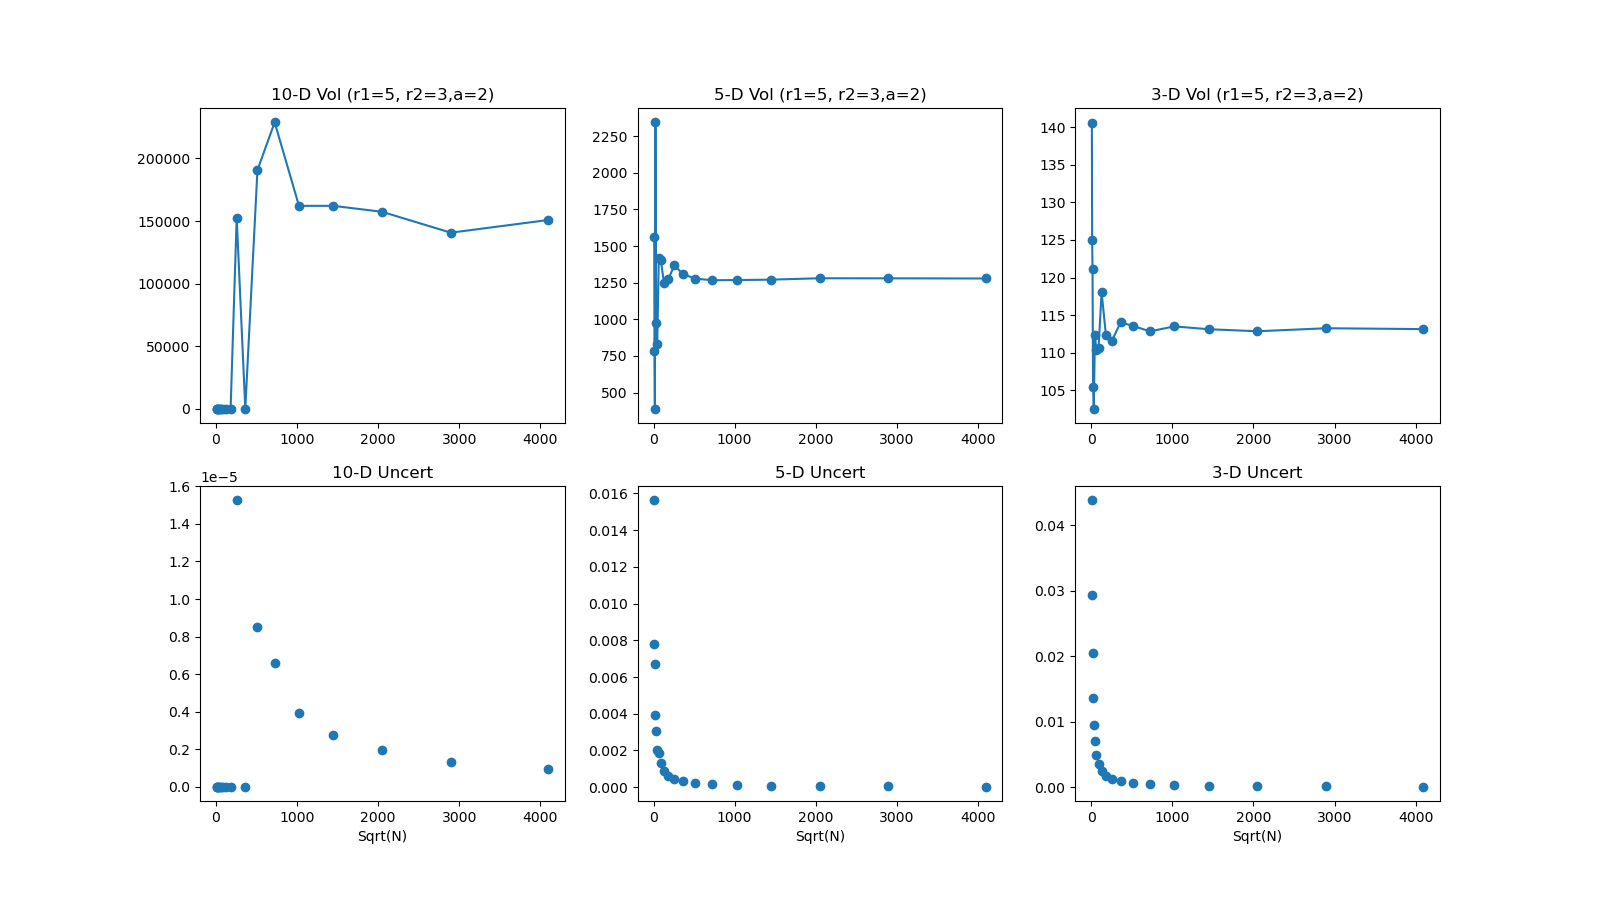
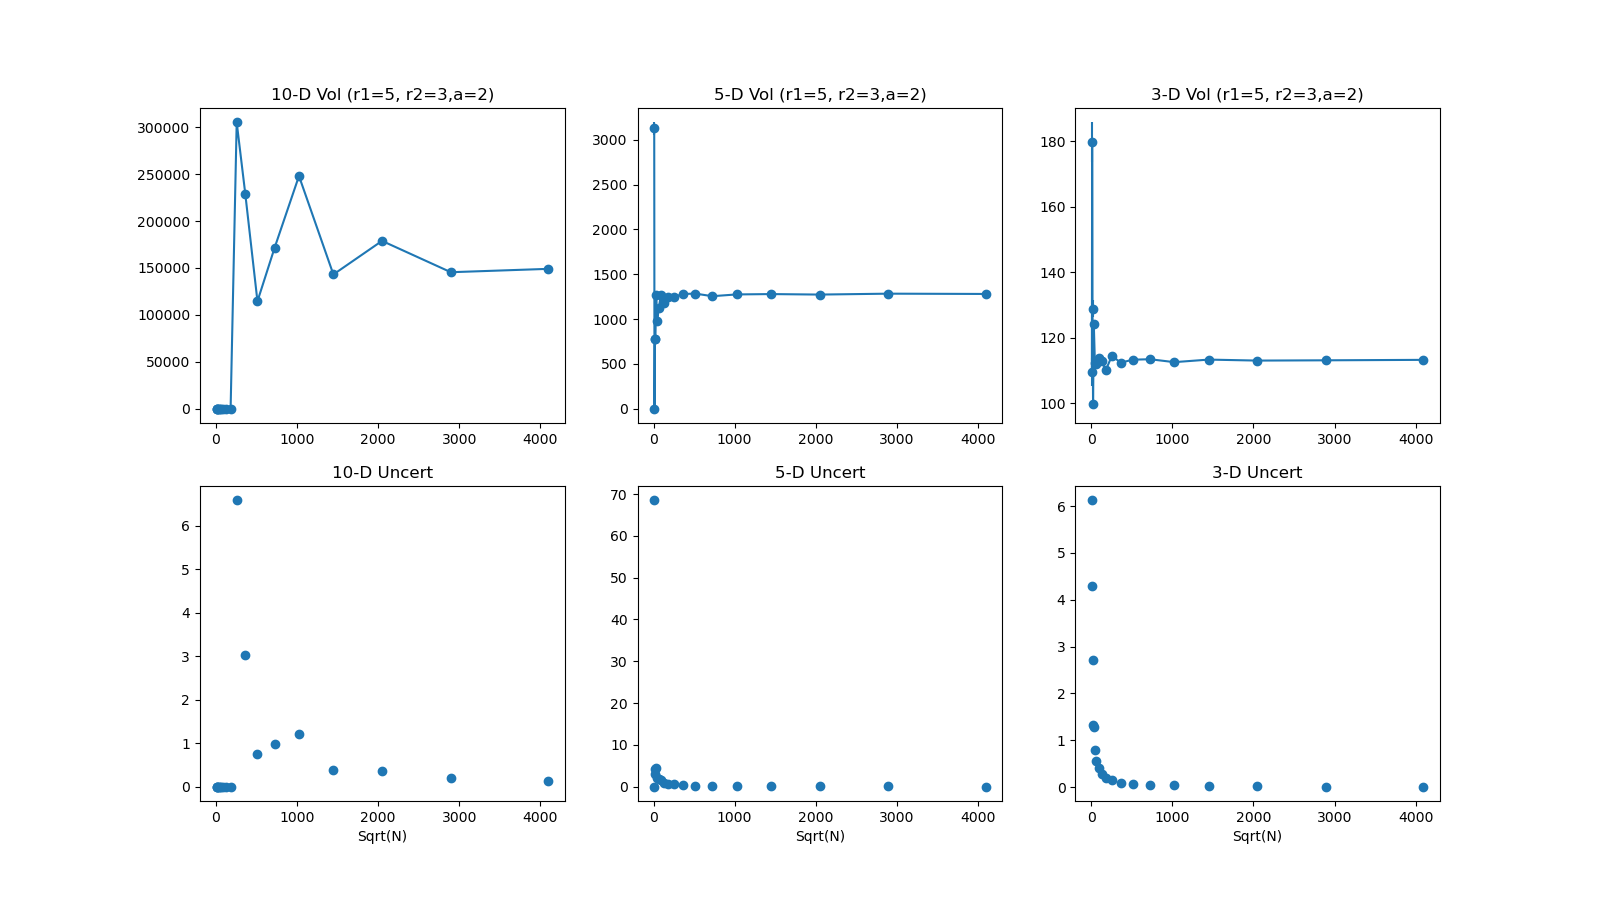
Fixed Convergence error

diff --git a/ndcrescent.py b/ndcrescent.py
@@ -21,7 +21,7 @@ def integrator(d, N, r1, r2, a):
 
     
     volume = np.prod(2*box_dim)*inside/N
-    stdev = dev/np.sqrt(N)
+    stdev = dev/np.sqrt(N)*volume
 
     return volume, stdev
 
